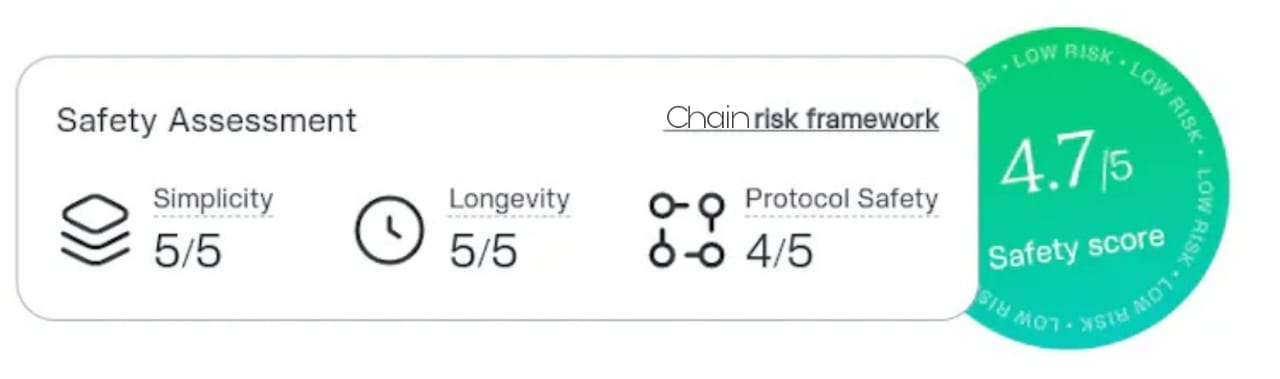
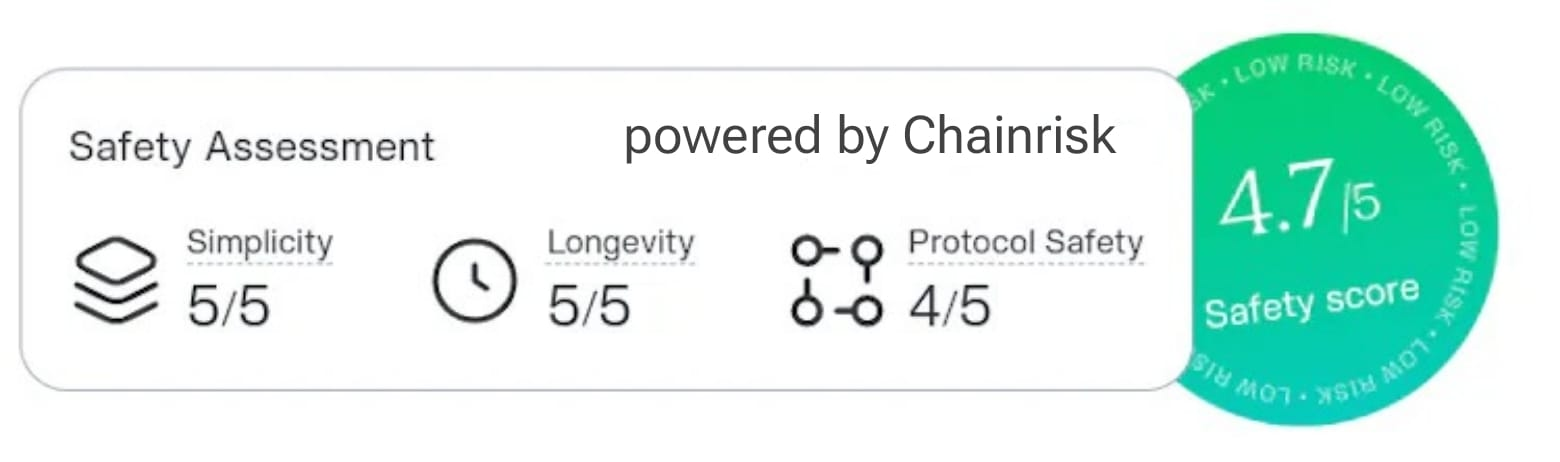
landing page fix

Changed region(s): [[0.375, 0.2322, 0.75, 0.3483]]

diff --git a/components/Profile/ProfileChart.tsx b/components/Profile/ProfileChart.tsx
@@ -7,6 +7,22 @@ const GrowthChart: React.FC = () => {
   const chartRef = useRef<HTMLCanvasElement>(null);
   const chartInstance = useRef<Chart<"line"> | null>(null);
 
+  let dataForPoints: number[] = [];
+  let dataForTokens: number[] = [];
+  let dataForAPY: number[] = [];
+
+  for (let i = 0; i < 100; i++) {
+    // x^2 curve data with some fluctuations
+    for (let i = 0; i < 30; i++) {
+      const fluctuation = Math.random() * 100 - 70; // Random fluctuation between -70 and 30
+      const x = i; // Center the curve around x = 15 (approximately half of 30)
+      const y = Math.pow(x, 2) + fluctuation; // Calculate y value based on x^2 curve with fluctuations
+      dataForPoints.push(y);
+      dataForTokens.push(y*2 + Math.random() * 20 - 10); // Tokens are 20 points above points
+      dataForAPY.push(y*3 + Math.random() * 10 - 10); // APY is 3 times the points
+    }
+  }
+
   useEffect(() => {
     if (chartRef.current) {
       const ctx = chartRef.current.getContext("2d");
@@ -14,13 +30,11 @@ const GrowthChart: React.FC = () => {
         chartInstance.current = new Chart(ctx, {
           type: "line",
           data: {
-            labels: Array.from({ length: 40 }, (_, i) => i + 1),
+            labels: Array.from({ length: 30 }, (_, i) => i + 1),
             datasets: [
               {
                 label: "Points",
-                data: Array.from({ length: 40 }, () =>
-                  Math.floor(Math.random() * 100)
-                ),
+                data: dataForPoints,
                 borderColor: "rgb(255, 99, 132)",
                 tension: 0.1,
                 backgroundColor: "rgba(255, 99, 132, 0.2)",
@@ -30,9 +44,7 @@ const GrowthChart: React.FC = () => {
               },
               {
                 label: "Tokens",
-                data: Array.from({ length: 40 }, () =>
-                  Math.floor(Math.random() * 100)
-                ),
+                data: dataForTokens,
                 borderColor: "rgb(54, 162, 235)",
                 tension: 0.1,
                 backgroundColor: "rgba(54, 162, 235, 0.2)",
@@ -41,10 +53,8 @@ const GrowthChart: React.FC = () => {
                 pointRadius: 0, // Hide points
               },
               {
-                label: "AQI",
-                data: Array.from({ length: 40 }, () =>
-                  Math.floor(Math.random() * 300)
-                ),
+                label: "APY",
+                data: dataForAPY,
                 borderColor: "rgb(75, 192, 192)",
                 backgroundColor: "rgba(75, 192, 192, 0.2)",
                 tension: 0.6,
@@ -60,8 +70,8 @@ const GrowthChart: React.FC = () => {
             scales: {
               x: {
                 display: true, // Hide x axis
-                ticks:{
-                  display: false
+                ticks: {
+                  display: false,
                 },
                 grid: {
                   display: false,

diff --git a/components/Benifits.tsx b/components/Benifits.tsx
@@ -12,7 +12,7 @@ export default function Benifits() {
           <h1 className="text-4xl mb-3 font-bold bg-gradient-to-r from-blue-500 to-purple-500 text-transparent bg-clip-text text-center lg:text-left">
             AI Agents you can trust
           </h1>
-          <p className="text-center text-xl lg:text-left">
+          <p className="text-center text-lg lg:text-left">
             ZKLiquid&apos;s ZKML implementation enables on-chain proving of
             private & predictive AI models which enables trustless & verifiable
             strategy execution.
@@ -31,7 +31,7 @@ export default function Benifits() {
           <h1 className="text-4xl mb-3 font-bold bg-gradient-to-r from-blue-500 to-purple-500 text-transparent bg-clip-text text-center lg:text-left">
             The lowest fees possible through DEX & Bridge aggregators.
           </h1>
-          <p className="text-center text-xl lg:text-left">
+          <p className="text-center text-lg lg:text-left">
             ZKLiquid elevates the DeFi experience by minimizing slippage and
             fees through the seamless integration of bridge and DEX aggregators.
           </p>
@@ -42,7 +42,7 @@ export default function Benifits() {
           <h1 className="text-4xl mb-3 font-bold bg-gradient-to-r from-blue-500 to-purple-500 text-transparent bg-clip-text text-center lg:text-left">
             Liquidity flows to where it&apos;s needed the most.
           </h1>
-          <p className="text-center text-xl lg:text-left my-2 mb-5">
+          <p className="text-center text-lg lg:text-left my-2 mb-5">
             Self-learning and predictive AI Agents allocate liquidity across
             multiple chains, assets, and protocols, ensuring sustainable growth
             in an ever-evolving DeFi landscape.

diff --git a/components/Powered.tsx b/components/Powered.tsx
@@ -1,0 +1,27 @@
+import Image from "next/image";
+
+export default function Powered() {
+  return (
+    <div className="flex flex-col items-center mt-20">
+      <h1 className="text-3xl m-8">Partners</h1>
+      <div className="grid grid-cols-1 md:grid-cols-2 gap-8">
+        <div className="bg-purple-200 rounded-xl flex flex-col p-10 items-center justify-end">
+          <div className="mr-4">
+            <Image src="/detectbox.png"  width={160} height={160} alt="Logo" />
+          </div>
+          <div>
+            <h1 className="text-black text-2xl mt-8">Audit Partner</h1>
+          </div>
+        </div>
+        <div className="bg-purple-200 rounded-xl flex flex-col p-10 items-center justify-end">
+          <div className="mr-4">
+            <Image src="/chainrisk.svg" width={160} height={160} alt="Logo" />
+          </div>
+          <div>
+            <h1 className="text-black text-2xl mt-8">Risk Partner</h1>
+          </div>
+        </div>
+      </div>
+    </div>
+  );
+}

diff --git a/components/About.tsx b/components/About.tsx
@@ -24,7 +24,7 @@ export default function About() {
 
   return (
     <div>
-      <div className="flex flex-col lg:flex-row justify-between items-center text-white mt-28">
+      <div className="flex flex-col lg:flex-row justify-between items-center text-white mt-28 p-6 rounded-xl border bg-gray-900 py-10">
         <animated.p
           className="text-5xl lg:px-20 w-full lg:w-1/2 text-center lg:text-left mb-8 lg:mb-0 font-serif bg-gradient-to-r from-blue-500 to-purple-500 text-transparent bg-clip-text"
           style={textAnimation}
@@ -35,7 +35,7 @@ export default function About() {
           className="lg:ml-8 w-full lg:w-1/2"
           style={buttonAnimation}
         >
-          <p className="text-xl">
+          <p className="text-lg">
             Our AI Agents leverage a vast array of on-chain data points to
             accurately forecast yields, volatility, and liquidity trends. This
             eliminates the need for manual liquidity allocation, as the AI

diff --git a/components/Profile/ProfileDashboard.tsx b/components/Profile/ProfileDashboard.tsx
@@ -2,7 +2,7 @@
 // components/ProfileDashboard.tsx
 
 import React, { useState, useEffect } from "react";
-import { Card, Tag, message } from "antd";
+import { Card, Progress, Tag, message } from "antd";
 import { ArrowUpOutlined, ClockCircleFilled, CopyOutlined } from "@ant-design/icons";
 import { ResponsiveContainer } from "recharts";
 import ReferralHistory from "./ReferralHistory";
@@ -99,6 +99,14 @@ const ProfileDashboard: React.FC = () => {
           </p>
           <Loadbar />
         </div>
+      </div>
+      <div className="rounded-xl bg-purple-200 shadow-sm p-6 mt-8">
+        <div className="flex justify-between items-center">
+
+        <h1 className="text-lg font-semibold text-gray-500">APY BOOSTS</h1>
+        <h1 className="text-2xl font-semibold">$8750/60000</h1>
+        </div>
+        <Progress percent={50} showInfo={false} strokeColor={"purple"} strokeWidth={20} status="active"/>
       </div>
       <Card
         title="LQAI Token"

diff --git a/components/FAQ.tsx b/components/FAQ.tsx
@@ -47,14 +47,18 @@ export default function FAQ() {
     <div className="flex flex-col justify-center items-center mt-20">
       <h1 className="text-3xl font-bold mb-4">FAQ</h1>
       <p className="text-lg mb-4">Frequently Asked Questions</p>
-      <div className="w-full lg:w-2/3">
-        <Collapse items={items} style={{
-          backgroundColor: "#fff",
-          color: "white",
-          borderRadius: "8px",
-          marginBottom: "20px",
-        
-        }} bordered accordion />
+      <div className="w-full lg:w-3/4">
+        <Collapse
+          items={items}
+          style={{
+            backgroundColor: "rgb(216, 180 ,254, 0.8)",
+            color: "white",
+            borderRadius: "8px",
+            marginBottom: "20px",
+          }}
+          bordered
+          accordion
+        />
       </div>
     </div>
   );

diff --git a/app/page.tsx b/app/page.tsx
@@ -4,8 +4,8 @@ import FAQ from "@/components/FAQ";
 import Footer from "@/components/Footer";
 import Hero from "@/components/Hero";
 import Navbar from "@/components/Navbar";
+import Powered from "@/components/Powered";
 import Protocols from "@/components/Protocols";
-import Strategy from "@/components/Strategy";
 
 export default async function Home() {
   await new Promise((resolve) => setTimeout(resolve, 2000));
@@ -17,6 +17,7 @@ export default async function Home() {
         <About />
         <Benifits />
         <Protocols />
+        <Powered/>
         {/* <Strategy /> */}
         <FAQ />
         <Footer />

diff --git a/components/Hero.tsx b/components/Hero.tsx
@@ -34,7 +34,7 @@ export default function Hero() {
         <h1 className="text-5xl font-bold bg-gradient-to-r from-blue-500 to-purple-500 text-transparent bg-clip-text">
           Trustless Omnichain AI Agents
         </h1>
-        <p className="my-5 text-xl">
+        <p className="my-5 text-lg">
           ZKLiquid&apos;s AI Agents direct omnichain liquidity trustlessly using
           ZKML.
           <br />

diff --git a/components/Navbar.tsx b/components/Navbar.tsx
@@ -13,7 +13,7 @@ export default function Navbar() {
   };
 
   return (
-    <div className="flex justify-between items-center py-4 px-6 text-white">
+    <div className="flex justify-between items-center py-4 px-4 lg:px-16 text-white">
       <Image
         onClick={() => router.push("/")}
         src={"/logo.png"}

diff --git a/components/Vault/About.tsx b/components/Vault/About.tsx
@@ -37,7 +37,7 @@ export default function About() {
         <h1 className="text-2xl mb-2">The process of yield generation</h1>
         <div className="mb-6">
           <Image
-            src="/flow.svg"
+            src="/flow.png"
             alt="Flow image"
             height={200}
             width={700}
